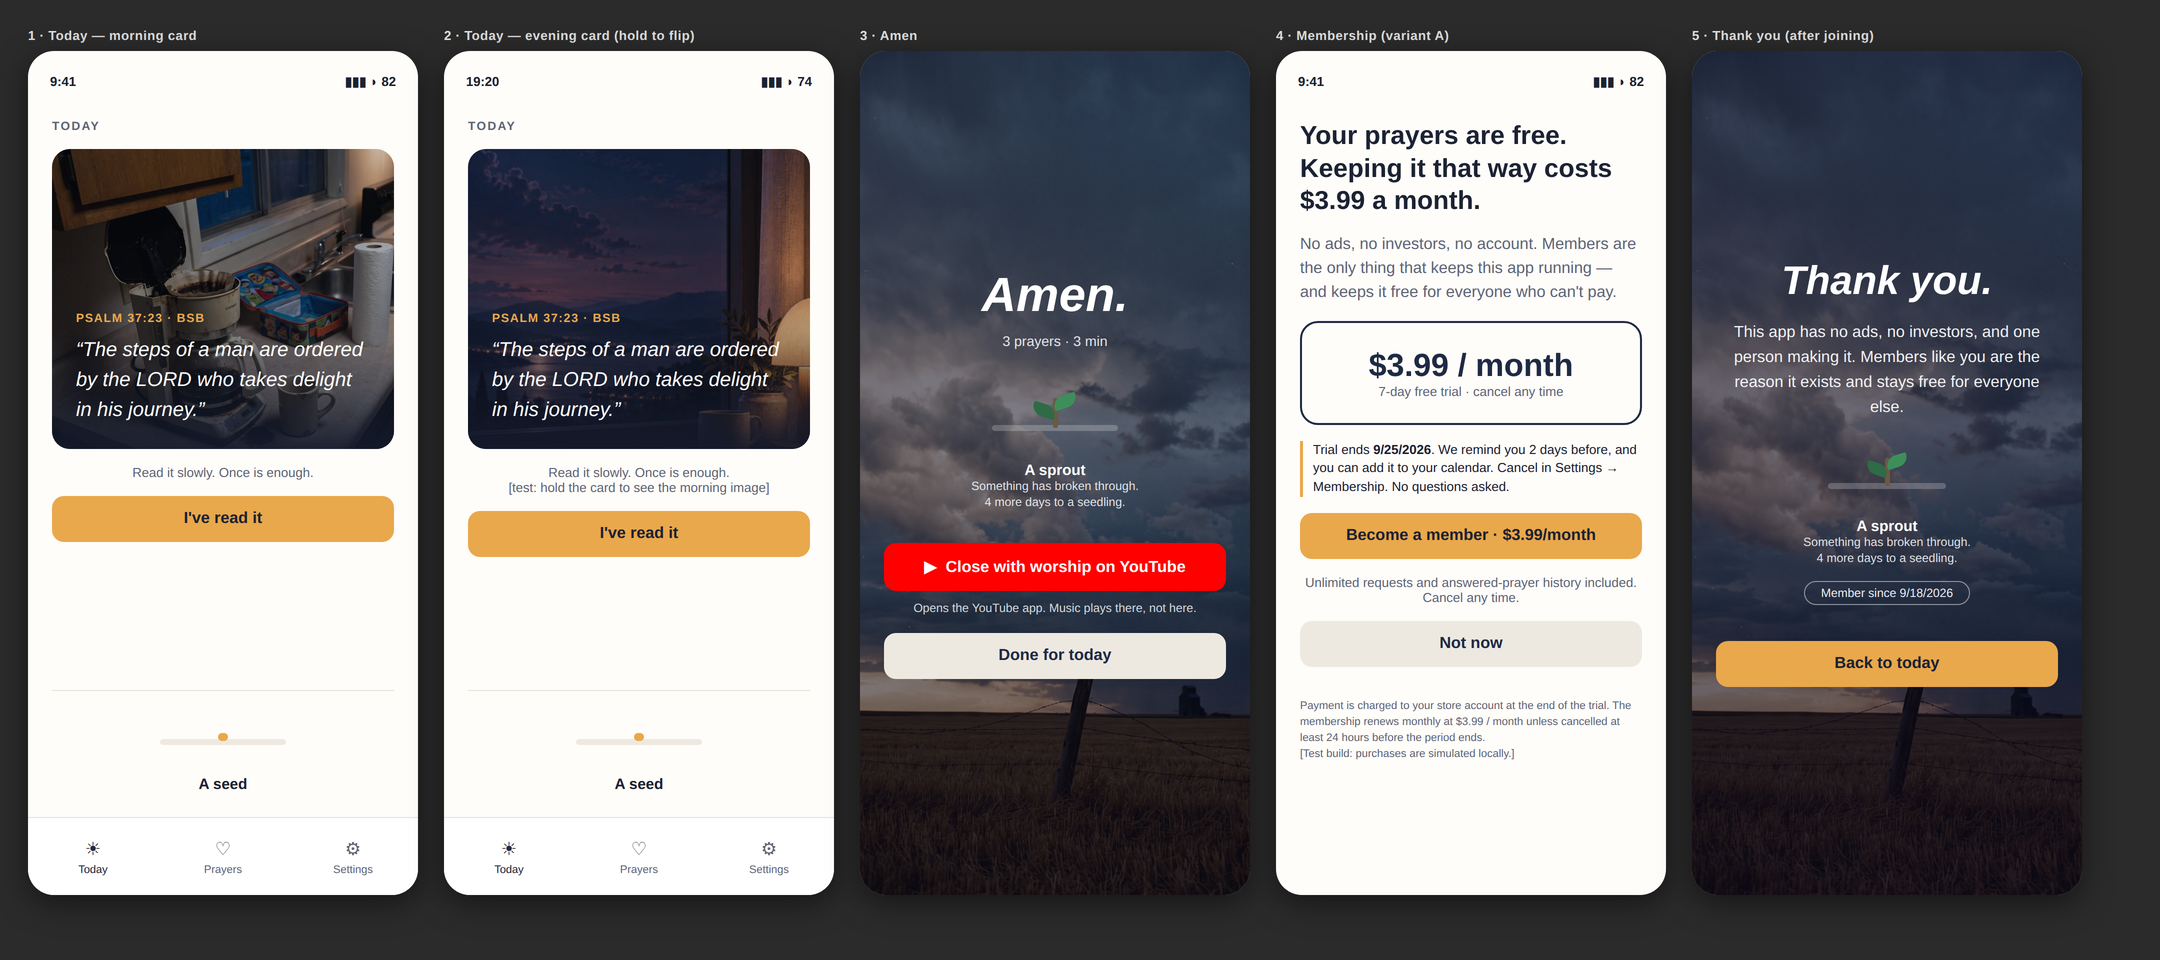
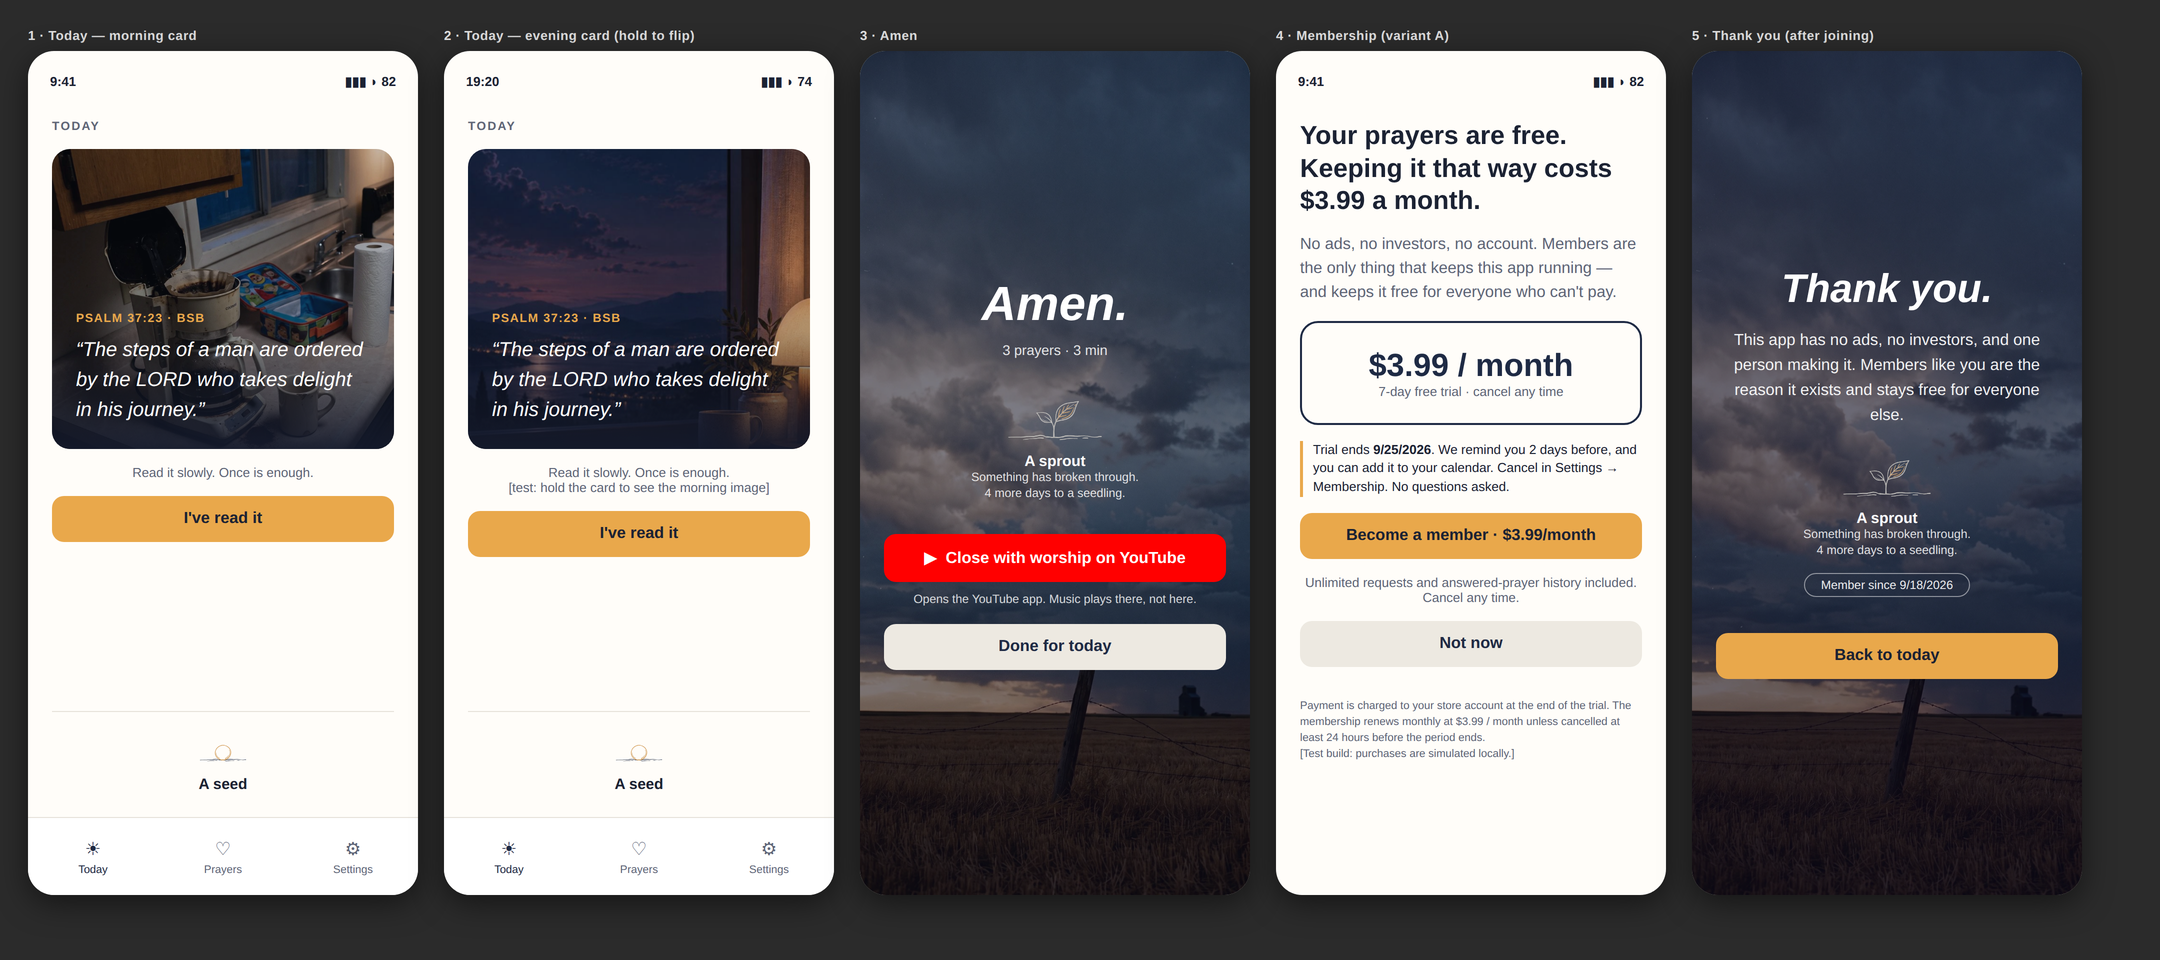
Put the botanical plates into the tree, four stages of five
The files arrived with the transparency checkerboard baked in as pixels — RGB,
no alpha channel — so dropping them in would have shipped a grey checkerboard.
The light background is keyed out and the result saved as PNG with alpha.

Their ground lines also sat at 58%, 58%, 75% and 90% of their own canvases, so
the plant would have jumped up and down as the stages changed. Each plate is
cropped, scaled to a set height above its ground line, and pasted onto one
1024 canvas with the line always at 82%. The plant now grows in place.

The navy ink disappears on the Amen and thank-you screens, which are dark
photographs, so every plate also has a `_dark` twin with the ink lifted to the
app's off-white while the amber is left alone.

Tree renders a plate where one exists and falls back to the drawing where none
does. The tree planted by water is still drawn: its two plates have not come
through as files yet. The young tree has both a plain plate and a two-fruit
plate for members.

Verified: tsc clean, Android bundle export succeeds and carries all ten plates,
both mock-up sheets re-rendered against them.

Claude-Session: https://claude.ai/code/session_01QpJozHbpFKBaSsAqmothQJ

diff --git a/selah-daily/src/components/Tree.tsx b/selah-daily/src/components/Tree.tsx
@@ -8,7 +8,7 @@
  *  - Drawn with plain views, so it needs no image files and no extra dependency.
  */
 import React from 'react';
-import { StyleSheet, Text, View } from 'react-native';
+import { Image, StyleSheet, Text, View } from 'react-native';
 import { colors, space } from '../theme';
 import { tree as treeCopy } from '../copy';
 
@@ -36,6 +36,33 @@ export function stageFor(count: number): { stage: Stage; index: number; next: St
   const next = index < STAGES.length - 1 ? STAGES[index + 1] : null;
   return { stage: STAGES[index], index, next, toNext: next ? next.min - count : 0 };
 }
+
+/**
+ * The drawn plant below is the fallback. Where a plate exists it is used
+ * instead: two-ink botanical drawings, all on one 1024 canvas with the ground
+ * line at 82%, so the plant grows in place instead of jumping between stages.
+ * `_dark` is the same plate with the navy ink lifted to the app's off-white,
+ * for the screens that sit on a dark photograph.
+ */
+type Plate = { light: number; dark: number; lightFruit?: number; darkFruit?: number };
+const PLATES: Record<Stage['key'], Plate | null> = {
+  seed: { light: require('../../assets/tree/seed.png'), dark: require('../../assets/tree/seed_dark.png') },
+  sprout: { light: require('../../assets/tree/sprout.png'), dark: require('../../assets/tree/sprout_dark.png') },
+  seedling: { light: require('../../assets/tree/seedling.png'), dark: require('../../assets/tree/seedling_dark.png') },
+  young: {
+    light: require('../../assets/tree/young.png'),
+    dark: require('../../assets/tree/young_dark.png'),
+    lightFruit: require('../../assets/tree/young_fruit.png'),
+    darkFruit: require('../../assets/tree/young_fruit_dark.png'),
+  },
+  // The tree planted by water is still drawn; its plates have not arrived.
+  water: null,
+};
+
+/** Visible height of a plate, as a fraction of its square canvas. */
+const PLATE_BOX: Record<Stage['key'], number> = {
+  seed: 0.2, sprout: 0.34, seedling: 0.56, young: 0.84, water: 1,
+};
 
 const leaf = '#3E8E5A';
 const leafDeep = '#2E6B46';
@@ -116,14 +143,29 @@ export function Tree({
   const fruit = isMember && index >= 3;
 
   /**
-   * The drawing grid is always 100 x 100, but early stages only use the bottom of it.
+   * The grid is always 100 x 100, but early stages only use the bottom of it.
    * Cropping to the used part keeps a seed from reserving a screen of empty sky.
    */
-  const boxHeight = size * [0.34, 0.46, 0.62, 0.86, 1][index];
+  const plate = PLATES[stage.key];
+  const boxHeight = size * (plate ? PLATE_BOX[stage.key] : [0.34, 0.46, 0.62, 0.86, 1][index]);
+  const plateSource = plate
+    ? tone === 'dark'
+      ? (fruit && plate.darkFruit) || plate.dark
+      : (fruit && plate.lightFruit) || plate.light
+    : null;
 
   return (
     <View style={{ alignItems: 'center' }} accessibilityLabel={`${stage.name}. ${count} days completed.`}>
       <View style={{ width: size, height: boxHeight, overflow: 'hidden' }}>
+        {plateSource ? (
+          // The plate's ground line sits at 82% of its canvas; drop it so the
+          // line lands just above the bottom of the visible box.
+          <Image
+            source={plateSource}
+            style={{ position: 'absolute', left: 0, bottom: -size * 0.14, width: size, height: size }}
+            resizeMode="contain"
+          />
+        ) : (
         <View style={{ position: 'absolute', left: 0, bottom: 0, width: size, height: size }}>
         {/* ground */}
         <View
@@ -212,6 +254,7 @@ export function Tree({
           </>
         )}
         </View>
+        )}
       </View>
 
       {detail !== 'none' && (

diff --git a/brand/mockup_screens.html b/brand/mockup_screens.html
@@ -67,6 +67,17 @@ h2{font-size:18px;font-weight:700;color:var(--ink)}
 </style>
 <script>
 const IMG='file:///home/user/app01/selah-daily/assets/images/';
+const TREE='file:///home/user/app01/selah-daily/assets/tree/';
+const KEYS=['seed','sprout','seedling','young','water'];
+const BOX={seed:.2,sprout:.34,seedling:.56,young:.84,water:1};
+function plate(size,index,tone,member){
+  const k=KEYS[index]; if(k==='water') return null;
+  const f=(member&&k==='young')?k+'_fruit':k;
+  const src=TREE+f+(tone==='dark'?'_dark':'')+'.png';
+  return `<div style="position:relative;overflow:hidden;width:${size}px;height:${size*BOX[k]}px">`
+       + `<img src="${src}" style="position:absolute;left:0;bottom:${-size*0.14}px;width:${size}px;height:${size}px;object-fit:contain">`
+       + `</div>`;
+}
 const R=[.34,.46,.62,.86,1], leaf='#3E8E5A',leafDeep='#2E6B46',stem='#6B5A3E',bark='#5A4A34';
 const ST=[['A seed','Small enough to lose in your hand.','3 more days to a sprout.'],
           ['A sprout','Something has broken through.','4 more days to a seedling.'],
@@ -99,7 +110,7 @@ addEventListener('DOMContentLoaded',()=>{
     const [s,i,tone,mem]=e.dataset.tree.split(',');const idx=+i;
     const fg=tone==='dark'?'#fff':'#1B2233',sub=tone==='dark'?'rgba(255,255,255,.85)':'#5E6577';
     const full=e.dataset.detail!=='name';
-    e.innerHTML=tree(+s,idx,tone,mem==='1')
+    e.innerHTML=(plate(+s,idx,tone,mem==='1') || tree(+s,idx,tone,mem==='1'))
       +`<div class="tname" style="color:${fg}">${ST[idx][0]}</div>`
       +(full?`<div class="tcap" style="color:${sub}">${ST[idx][1]}</div>`
             +`<div class="tcap" style="color:${sub};margin-top:2px">${ST[idx][2]}</div>`:'')

diff --git a/brand/mockup.html b/brand/mockup.html
@@ -56,6 +56,17 @@ h1{font-size:26px;font-weight:800;color:var(--ink);line-height:1.25}
 </style>
 <script>
 const IMG='file:///home/user/app01/selah-daily/assets/images/';
+const TREE='file:///home/user/app01/selah-daily/assets/tree/';
+const KEYS=['seed','sprout','seedling','young','water'];
+const BOX={seed:.2,sprout:.34,seedling:.56,young:.84,water:1};
+function plate(size,index,tone,member){
+  const k=KEYS[index]; if(k==='water') return null;
+  const f=(member&&k==='young')?k+'_fruit':k;
+  const src=TREE+f+(tone==='dark'?'_dark':'')+'.png';
+  return `<div style="position:relative;overflow:hidden;width:${size}px;height:${size*BOX[k]}px">`
+       + `<img src="${src}" style="position:absolute;left:0;bottom:${-size*0.14}px;width:${size}px;height:${size}px;object-fit:contain">`
+       + `</div>`;
+}
 const RATIO=[.34,.46,.62,.86,1];
 const leaf='#3E8E5A', leafDeep='#2E6B46', stem='#6B5A3E', bark='#5A4A34';
 function tree(size, index, tone){
@@ -83,7 +94,7 @@ window.addEventListener('DOMContentLoaded',()=>{
     const i=+index, s=+size;
     const fg = tone==='dark'?'#fff':'#1B2233', sub = tone==='dark'?'rgba(255,255,255,.85)':'#5E6577';
     const full = el.dataset.detail !== 'name';
-    el.innerHTML = tree(s,i,tone)
+    el.innerHTML = (plate(s,i,tone,false) || tree(s,i,tone))
       + `<div class="tname" style="color:${fg}">${STAGES[i][0]}</div>`
       + (full ? `<div class="tcap" style="color:${sub}">${STAGES[i][1]}</div>`
               + `<div class="tcap" style="color:${sub};margin-top:2px">${STAGES[i][2]}</div>` : '');
